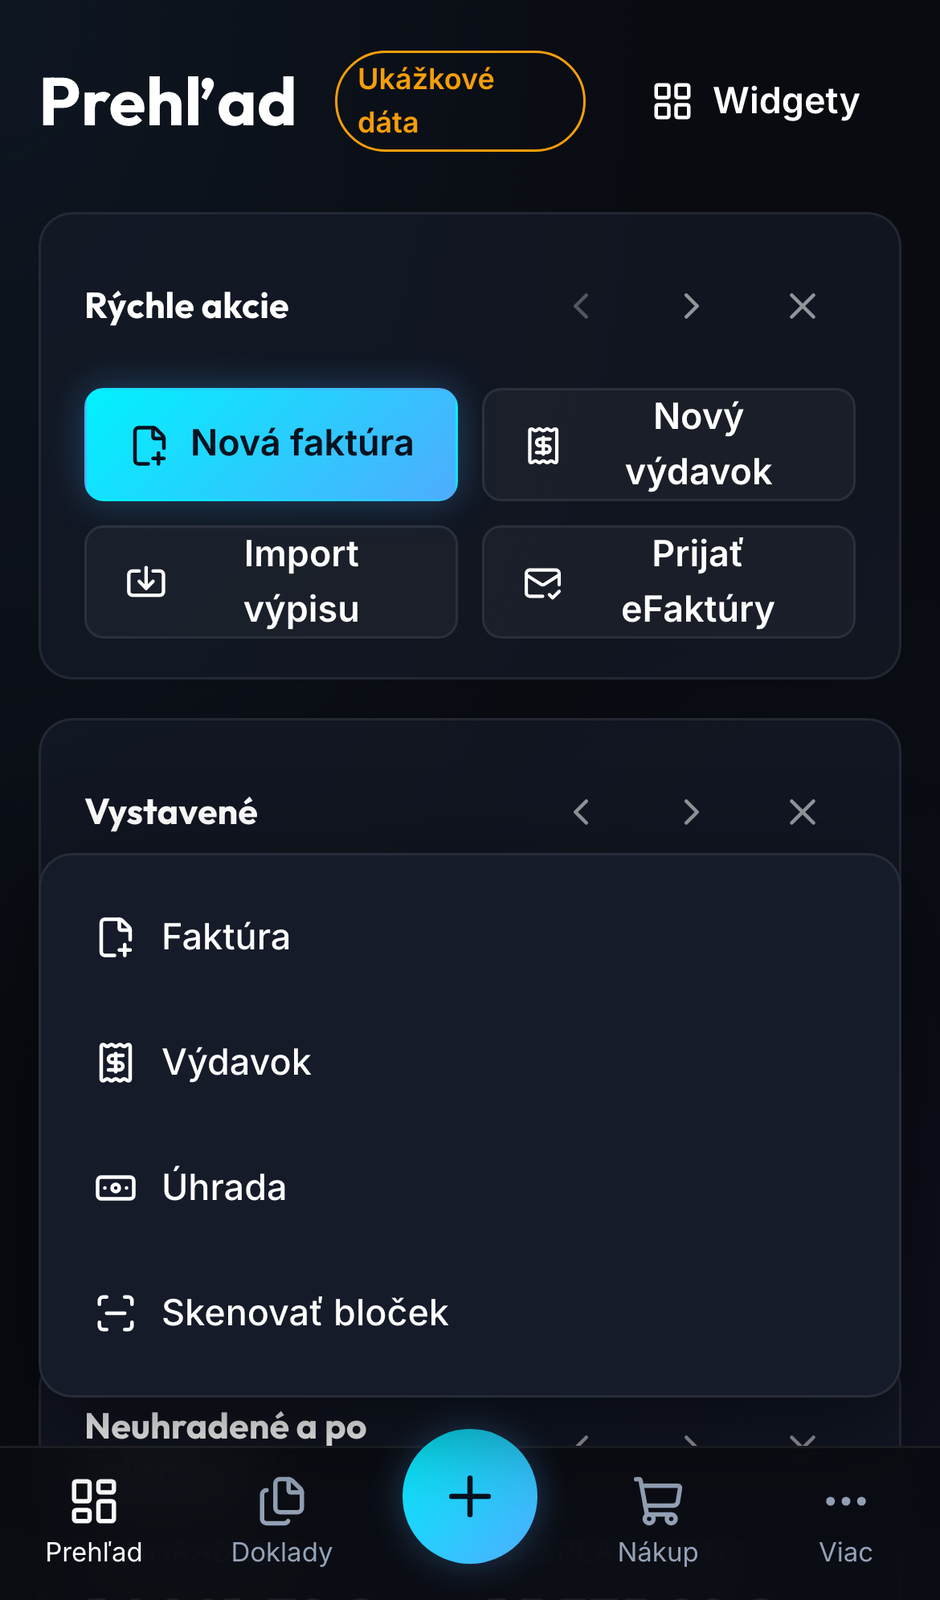
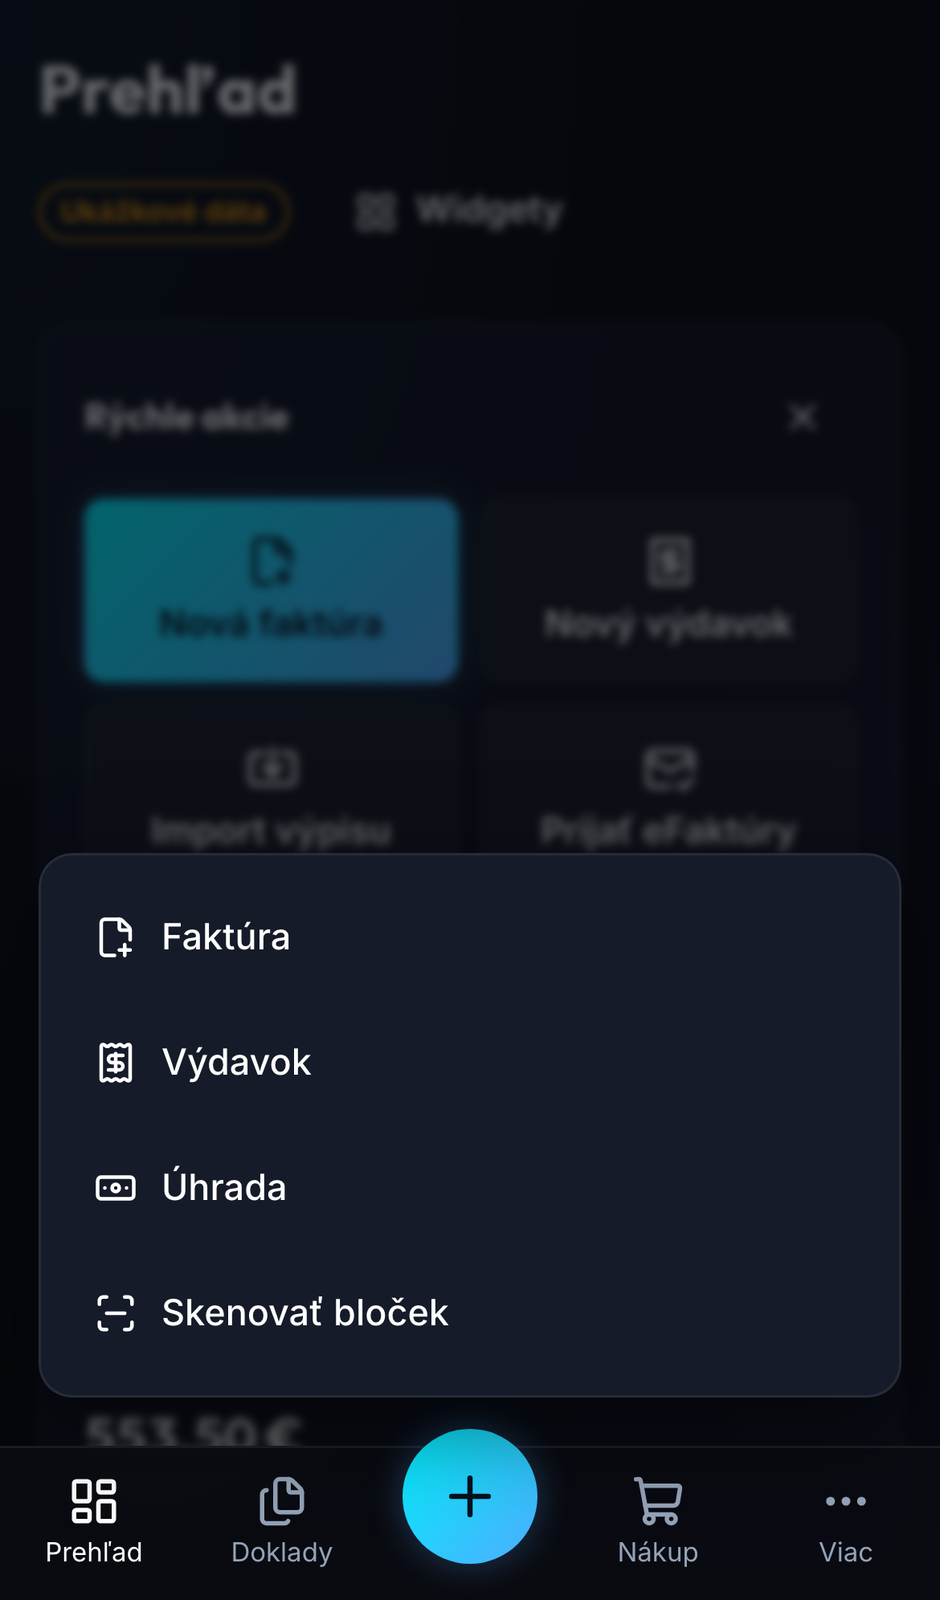
Phone layout of the overview and new phone screenshots
Quick actions form a 2 by 2 grid with the icon above the label, badges
do not wrap, the view header wraps, widget titles take the free width
and the move arrows are hidden on a phone. The create menu dims the
page behind it and closes on a tap outside.

diff --git a/app/src/style/dashboard.css b/app/src/style/dashboard.css
@@ -7,10 +7,11 @@
 .widget.is-dragging { opacity: 0.5; }
 .widget.is-drop { border-color: var(--accent-blue); box-shadow: var(--shadow-glow); }
 .widget-head { display: flex; align-items: center; justify-content: space-between; gap: 8px; }
-.widget-head h2 { font-size: 15px; }
+.widget-head h2 { font-size: 15px; flex: 1; min-width: 0; }
 .widget-tools { display: flex; gap: 2px; opacity: 0.55; }
 .widget:hover .widget-tools, .widget:focus-within .widget-tools { opacity: 1; }
 .widget-body { flex: 1; }
+@media (max-width: 767px) { .widget-tools .widget-move { display: none; } .widget-tools { opacity: 1; } }
 .view-actions { display: flex; align-items: center; gap: 10px; }
 .badge-demo { color: var(--warning); }
 .badge-new { color: var(--accent-blue); margin-left: 6px; }
@@ -36,7 +37,11 @@
 .calendar-row.is-soon .calendar-left { color: var(--warning); font-weight: 600; }
 
 .quick-actions { display: flex; flex-wrap: wrap; gap: 10px; }
-@media (max-width: 767px) { .quick-actions .btn { flex: 1 1 calc(50% - 10px); } }
+@media (max-width: 767px) {
+  .quick-actions { display: grid; grid-template-columns: repeat(2, minmax(0, 1fr)); }
+  .quick-actions .btn { flex-direction: column; gap: 6px; min-height: 76px; padding: 10px 8px; text-align: center; line-height: 1.2; }
+  .quick-actions .btn svg { width: 22px; height: 22px; }
+}
 
 .threshold-bar { height: 10px; border-radius: 999px; background: var(--overlay-04); overflow: hidden; }
 .threshold-fill { height: 100%; background: var(--success); transition: width var(--transition-normal); }

diff --git a/app/src/views/dashboard/index.js b/app/src/views/dashboard/index.js
@@ -49,8 +49,8 @@ function widgetCard(id, ctx, { layout, onLayout }) {
   h('header', { class: 'widget-head' },
     h('h2', { id: `widget-${id}-title` }, t(`dashboard.widget.${id}`)),
     h('div', { class: 'widget-tools' },
-      h('button', { type: 'button', class: 'btn btn-ghost btn-icon btn-sm', 'aria-label': t('dashboard.moveLeft'), disabled: index <= 0, onclick: () => onLayout(moveWidget(layout, id, -1)) }, icon('chevron-left')),
-      h('button', { type: 'button', class: 'btn btn-ghost btn-icon btn-sm', 'aria-label': t('dashboard.moveRight'), disabled: index >= visible.length - 1, onclick: () => onLayout(moveWidget(layout, id, 1)) }, icon('chevron-right')),
+      h('button', { type: 'button', class: 'btn btn-ghost btn-icon btn-sm widget-move', 'aria-label': t('dashboard.moveLeft'), disabled: index <= 0, onclick: () => onLayout(moveWidget(layout, id, -1)) }, icon('chevron-left')),
+      h('button', { type: 'button', class: 'btn btn-ghost btn-icon btn-sm widget-move', 'aria-label': t('dashboard.moveRight'), disabled: index >= visible.length - 1, onclick: () => onLayout(moveWidget(layout, id, 1)) }, icon('chevron-right')),
       h('button', { type: 'button', class: 'btn btn-ghost btn-icon btn-sm', 'aria-label': t('dashboard.hide'), onclick: () => onLayout(hideWidget(layout, id)) }, icon('x')))),
   body);
   card.addEventListener('dragstart', (e) => { e.dataTransfer.setData('text/plain', id); e.dataTransfer.effectAllowed = 'move'; card.classList.add('is-dragging'); });

diff --git a/app/src/style/shell.css b/app/src/style/shell.css
@@ -40,10 +40,11 @@
 .app-version { font-size: 12px; color: var(--text-muted); padding: 0 6px; }
 
 .main { flex: 1; min-width: 0; margin-left: var(--sidebar-width); padding: 32px clamp(16px, 3vw, 40px) calc(var(--promo-height) + 32px); }
-.view-header { display: flex; align-items: center; justify-content: space-between; gap: 16px; margin-bottom: 24px; }
+.view-header { display: flex; flex-wrap: wrap; align-items: center; justify-content: space-between; gap: 12px 16px; margin-bottom: 24px; }
 
 .bottom-bar { display: none; }
 .fab-menu { display: none; }
+.fab-backdrop { display: none; }
 
 @media (max-width: 767px) {
   .sidebar { display: none; }
@@ -75,6 +76,8 @@
     z-index: 31; display: grid; gap: 8px; padding: 12px; border-radius: var(--radius-md);
     background: var(--bg-elevated); border: 1px solid var(--border-color); box-shadow: var(--shadow-lg);
   }
+  /* Dims the page behind the open create menu; a tap on it closes the menu. */
+  .fab-backdrop[data-open="true"] { display: block; position: fixed; inset: 0; z-index: 29; background: var(--backdrop); backdrop-filter: blur(2px); }
   /* The items are buttons: drop the browser's button look. */
   .fab-menu .nav-item {
     width: 100%; min-height: var(--touch-target); border: 0; background: transparent; color: var(--text-primary);

diff --git a/app/src/views/shell/bottom-bar.js b/app/src/views/shell/bottom-bar.js
@@ -10,8 +10,10 @@ import { emit } from '../../events.js';
 export function renderBottomBar(active) {
   const menu = h('div', { class: 'fab-menu', id: 'fab-menu', dataset: { open: 'false' }, role: 'menu', 'aria-label': t('fab.title') });
   let fab = null;
+  const backdrop = h('div', { class: 'fab-backdrop', dataset: { open: 'false' }, 'aria-hidden': 'true' });
   const setOpen = (open) => {
     menu.dataset.open = open ? 'true' : 'false';
+    backdrop.dataset.open = open ? 'true' : 'false';
     fab.setAttribute('aria-expanded', open ? 'true' : 'false');
     if (open) {
       const first = menu.querySelector('[role="menuitem"]');
@@ -43,5 +45,6 @@ export function renderBottomBar(active) {
       }, icon(item.icon), h('span', {}, t(item.label))));
     }
   });
-  return [menu, bar];
+  backdrop.addEventListener('click', () => setOpen(false));
+  return [backdrop, menu, bar];
 }

diff --git a/app/src/style/components.css b/app/src/style/components.css
@@ -10,6 +10,7 @@
 .empty-state h2 { color: var(--text-primary); }
 
 .badge {
+  white-space: nowrap;
   display: inline-flex; align-items: center; gap: 4px; padding: 2px 8px; border-radius: 999px;
   font-size: 12px; font-weight: 600; border: 1px solid currentColor;
 }

diff --git a/docs/CHANGELOG.md b/docs/CHANGELOG.md
@@ -60,6 +60,10 @@ All notable changes to this project are documented here. The format follows [Kee
 - The first start shows the Overview with a "Set up a company" action instead of an empty dashboard; an unfinished wizard is offered to be continued.
 - The Help item was added to the navigation.
 
+#### Fixed
+
+- Phone layout of the Overview: quick actions in a 2 by 2 grid with the icon above the label, badges no longer wrap, the page header wraps cleanly, widget titles take the free width and the move arrows are hidden on a phone (the order is changed in "Widgets"), and the create menu dims the page behind it and closes on a tap outside.
+
 ### PDF documents and QR payments
 
 #### Added

diff --git a/README.md b/README.md
@@ -63,7 +63,7 @@ WE Invoice is the third free app of the WE line by [White Eagles](https://whitee
   </tr>
   <tr>
     <td width="50%" align="center"><img src="docs/screenshots/invoice-pdf.png" width="420" alt="Invoice PDF with PAY by square"></td>
-    <td width="50%" align="center"><img src="docs/screenshots/phone-fab.png" width="300" alt="Phone layout with the create menu"></td>
+    <td width="50%" align="center"><img src="docs/screenshots/phone.png" width="200" alt="Phone layout, overview"> <img src="docs/screenshots/phone-fab.png" width="200" alt="Phone layout with the create menu"></td>
   </tr>
 </table>
 
